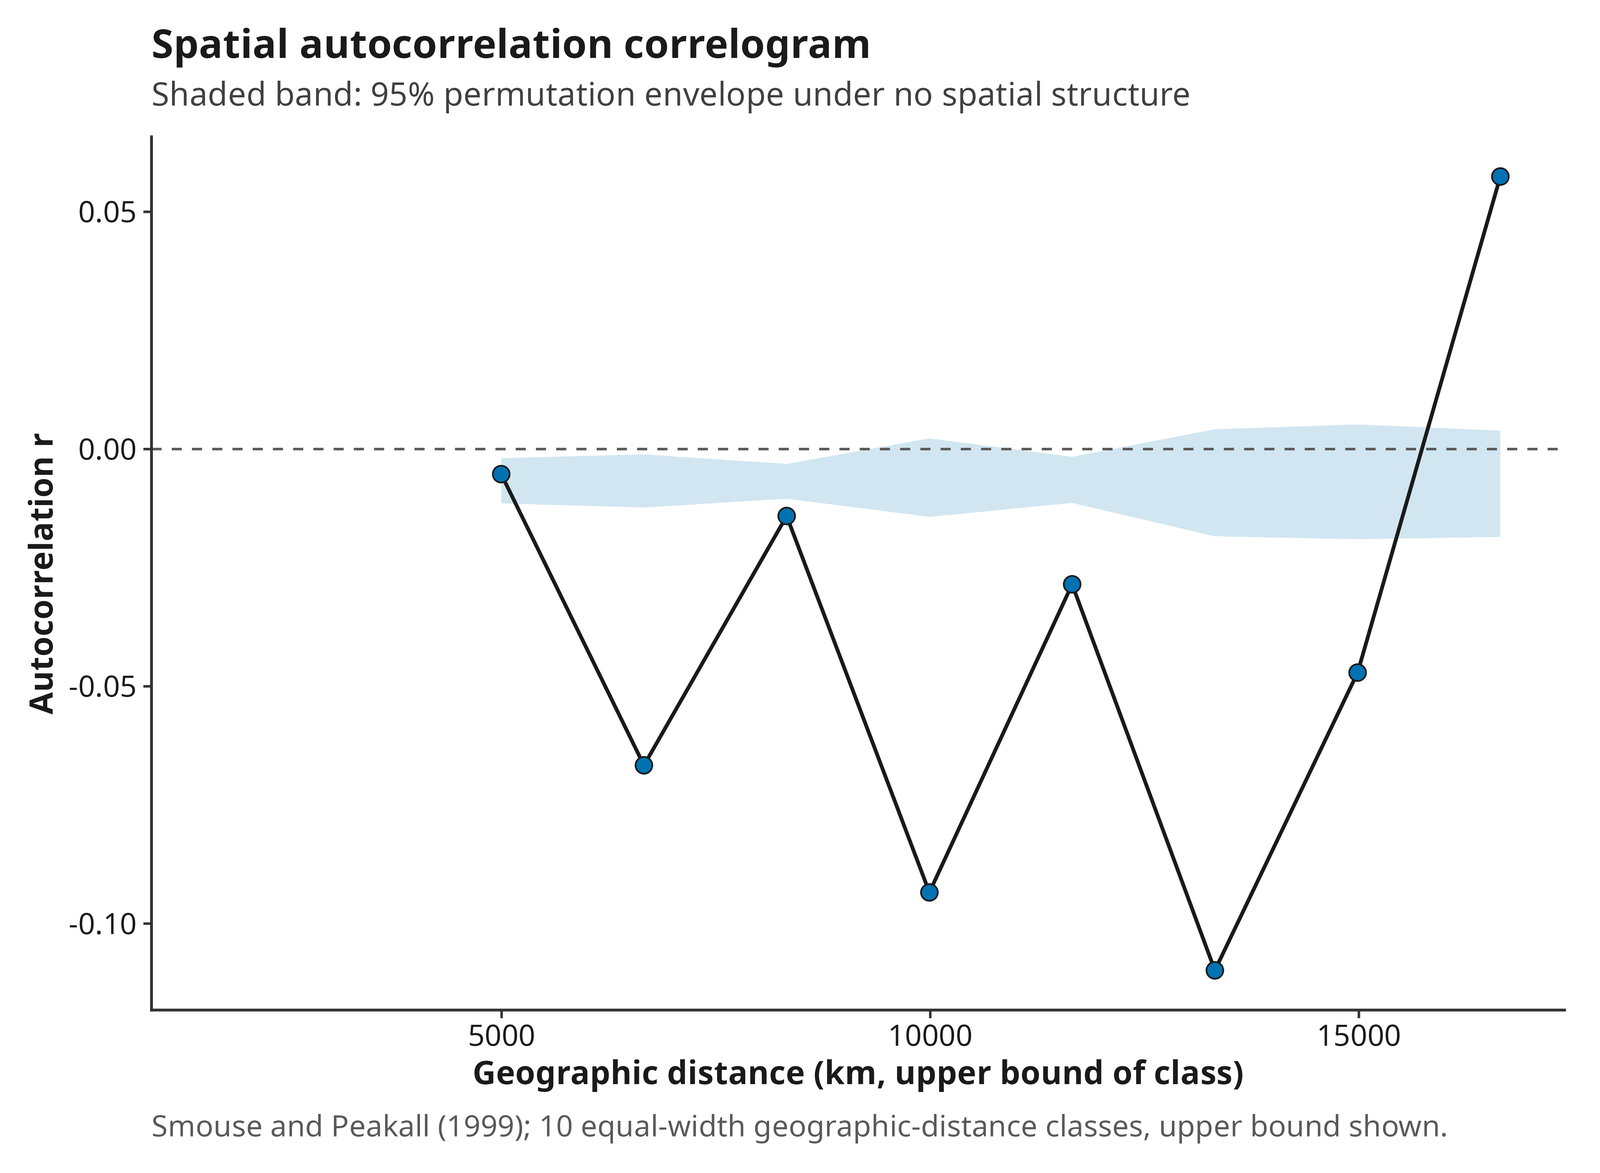
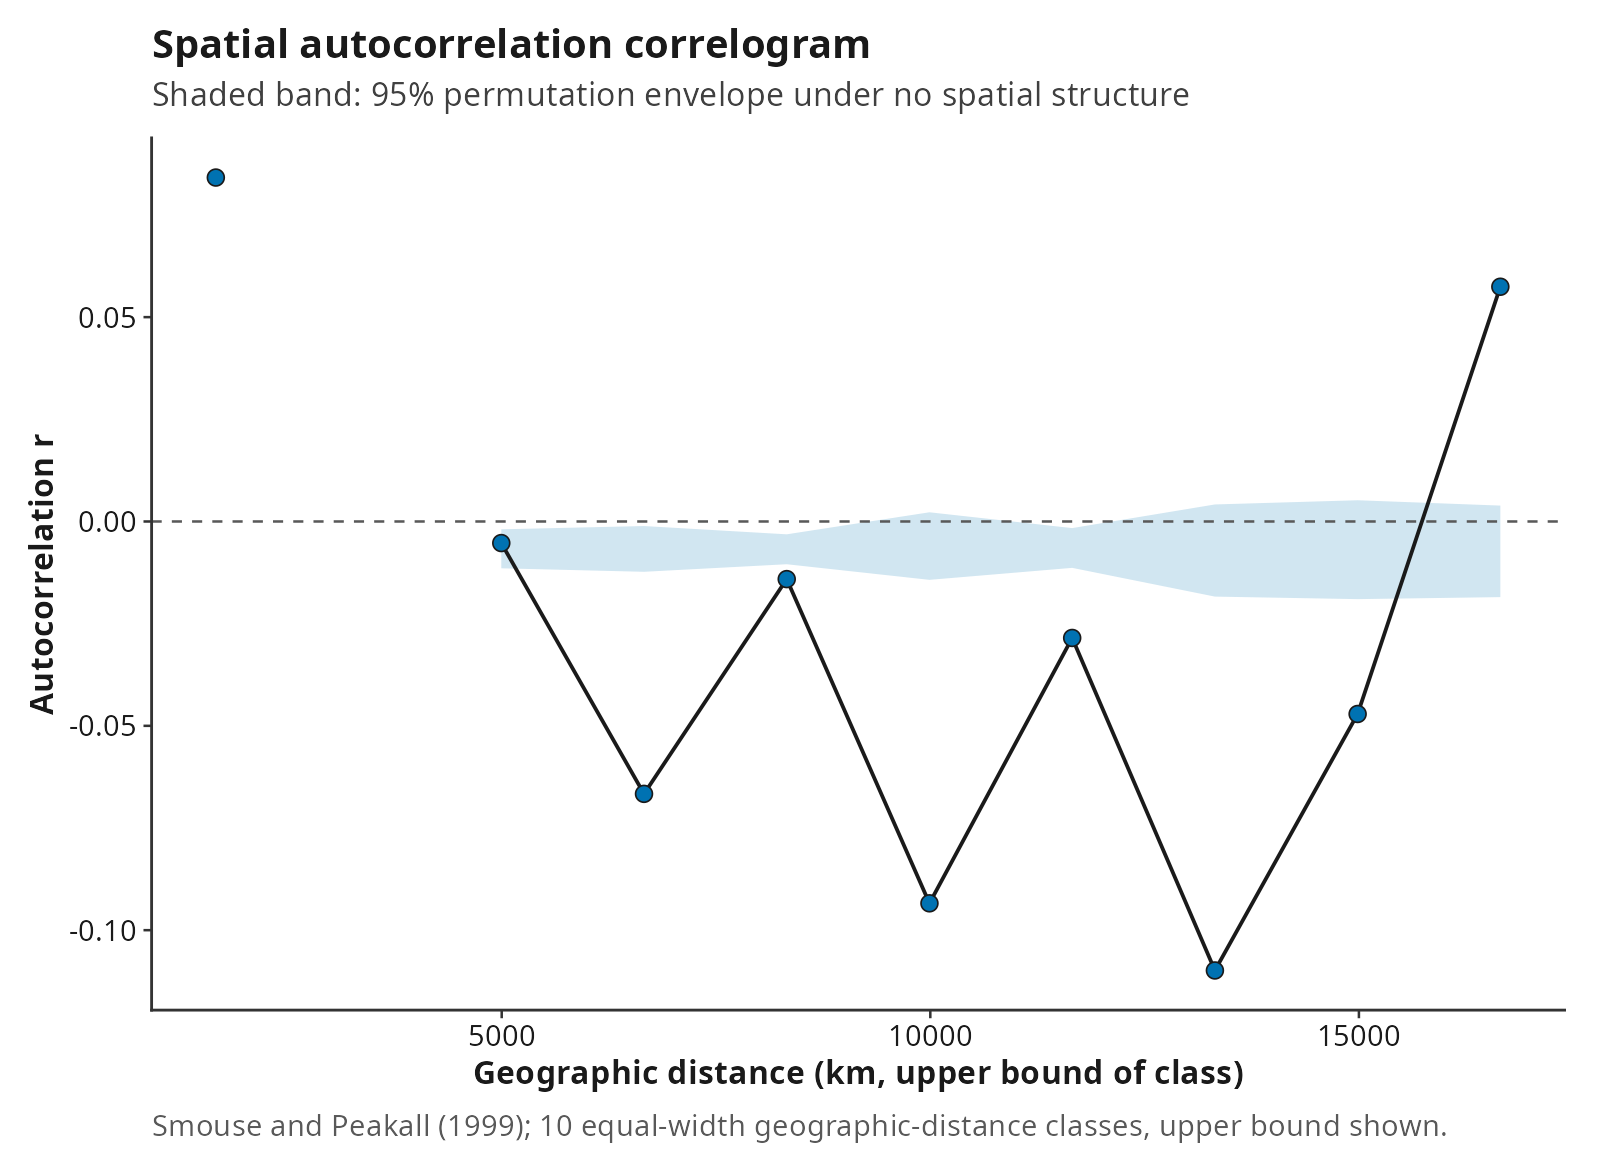
Fix spatial-autocorrelation distance classes, SFS boundary binning, and unchecked file installs
The correlogram dropped every co-located (distance 0) pair and the
farthest pairs; permutation p-values could be reported as 0. The folded
SFS put boundary MAFs one class too high through floating-point error.
PDF compression and default-config writing ignored copy failures.
Quickstart figure, wiki, and vignette updated for the correlogram change.

Claude-Session: https://claude.ai/code/session_01D4onVdW5nemQZbdv3J94nG

diff --git a/NEWS.md b/NEWS.md
@@ -8,6 +8,9 @@
   - **`execution-scheduler.R` -- module results could depend on which other modules ran.** A module drawing random numbers without its own `set.seed()` inherited whatever RNG state earlier modules left behind, so its output changed with the set of enabled modules, with the execution backend (a forked worker never advances the parent's RNG; a sequential run does), and between a fresh and a checkpoint-resumed run. Every module now starts from a deterministic state derived from `compute.seed` and its own name, and the caller's RNG state is restored afterwards.
   - **`roh.R` -- ROH sites were filtered on missingness among samples that sample QC had already excluded.** `bcftools view` evaluates `--exclude` against the original sample set, before `-S` subsetting (confirmed directly). In the module's single-pass call, `F_MISSING` therefore still counted every QC-excluded sample -- typically the high-missingness ones -- so sites were dropped for missingness among samples not in the analysis, and the ROH site set disagreed with the GDS-side variant QC. In the regression fixture one fully-missing excluded sample removed every site. Subsetting and filtering are now two passes. Runs where sample QC excluded nobody are unaffected.
   - **`ml_tree.R` -- bootstrap support was not reproducible with `compute.threads > 1`.** `bootstrap.pml(multicore = TRUE)` resamples inside forked workers, whose Mersenne-Twister streams do not derive from `set.seed()`; two identical calls disagreed at 7 of 10 nodes. Multi-threaded runs now select and seed L'Ecuyer-CMRG for the bootstrap (restoring the previous generator afterwards). Single-threaded results are unchanged. The module's genotype extraction also now pins `snpfirstdim = FALSE` like every other call site.
+  - **`spatial_autocorrelation.R` -- co-located sample pairs and the farthest pairs were silently left out of the correlogram.** The distance classes were copied from `PopGenReport::spautocor()`, whose first class has a strict `> 0` lower bound and whose class width comes from the distance *range* while the classes start at 0. With population-level coordinates (one point per sampling site, the usual case) every within-site pair sits at distance 0 and was dropped -- the shortest-distance class the correlogram exists to show -- and the farthest pairs fell past the last class (3 of 780 in the reference fixture). The first class now includes distance 0 and the last is open-ended, so every pair is classified; classes 1-7 of the reference fixture are unchanged. Permutation p-values now use `(b + 1) / (m + 1)` instead of `b / m`, which reported `p = 0`. On the quickstart example the first class now holds the 2,720 co-located pairs (r = 0.084, p = 0.001) instead of being empty; the wiki, vignette, and figure are updated.
+  - **`bottleneck.R`**: a MAF sitting exactly on a class boundary was binned one class too high (`1 - 0.7` is `0.30000000000000004`, so `ceiling(maf / 0.05)` gave 7, not the right-closed class 6). Boundary values are common at small sample sizes (n = 10: every MAF is a multiple of 0.05), where this could move the modal class and the mode-shift call.
+  - **`report.R`** / **`cli.R`**: PDF compression installed its result with `file.copy(overwrite = TRUE)`, which truncates the report before writing and then logged success whatever happened; it now stages beside the target and renames. `write_default_config()` reported "Wrote default configuration" even when the copy failed. `parse_admixture_cv()` no longer errors on a log holding more than one CV line.
   - **`genome_scan.R`**: windowed FST included singleton populations that the genome-wide FST excludes, so the two described different sample sets; the scan now applies the same N >= 2 rule.
 
 - **A Fable 5 review of the results/interpretation documentation (`wiki/Results-and-Interpretation.md`, `vignettes/interpreting-results.Rmd`), cross-checked against the actual R source, found several places where the guidance could lead a user to a wrong scientific conclusion or was simply missing -- since applied to both documents and, where the same explanatory text is duplicated into the actual HTML/PDF report (`inst/rmarkdown/templates/popgenvcf_report/skeleton/skeleton.Rmd`), there too:**

diff --git a/wiki/Results-and-Interpretation.md b/wiki/Results-and-Interpretation.md
@@ -1217,11 +1217,16 @@ documented *population-level* representative coordinates (individual
 sample locations are never published for de-identified 1000 Genomes data),
 so 21% of sample pairs (same population, or populations sharing one
 representative point) sit at exactly zero geographic distance, and the
-smallest *nonzero* distance jumps straight to 3,503 km -- leaving the two
-shortest distance classes completely empty. The correlogram therefore
-mostly resolves differences between population collection sites, not the
-fine-grained, continuous within-population spatial structure this method
-was designed to detect. Treat the quickstart values as a demonstration of
+smallest *nonzero* distance jumps straight to 3,503 km. Those 2,720
+co-located pairs form the first distance class (which includes distance 0)
+and show the expected positive autocorrelation (r = 0.084, p = 0.001);
+the second class is empty, and every later class compares different
+collection sites. The correlogram therefore contrasts "same site" with
+"different sites" rather than resolving the fine-grained, continuous
+within-population spatial structure this method was designed to detect.
+Permutation p-values use the (b + 1)/(m + 1) convention, so the smallest
+reportable value with the default 999 permutations is 0.001, never 0.
+Treat the quickstart values as a demonstration of
 the analysis running correctly, not as a finding about within-population
 spatial genetic structure.
 
